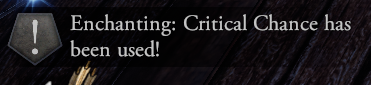
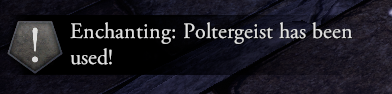
Updated version of Outward.ModsCommunicator dependency, Fixed logging prefix with double square brackets [[]], Changed data passed variables for events by making sure it's less misinterpretable (updated to match mod pack template) , Changed enchantment notification messages by making them feel less 

diff --git a/OutwardGameSettings.cs b/OutwardGameSettings.cs
@@ -23,7 +23,7 @@ namespace OutwardGameSettings
         // Choose a NAME for your project, generally the same as your Assembly Name.
         public const string NAME = "Outward Game Settings";
         // Increment the VERSION when you release a new version of your mod.
-        public const string VERSION = "1.0.0";
+        public const string VERSION = "1.0.1";
 
         public static string prefix = "[GymMed-Game-Settings]";
 
@@ -76,8 +76,8 @@ namespace OutwardGameSettings
                 "Play additional audio on enchanting failed/success?"
             );
 
-            // Register all events for publishing, when other mods can discover them
-            EventBus.RegisterEvent(GUID, EventBusPublisher.EnchantmentMenuTryEnchant, ("menu", typeof(EnchantmentMenu)));
+            // Register all events for publishing/subscribing, when other mods can discover them
+            EventBus.RegisterEvent(GUID, EventBusPublisher.EnchantmentMenuTryEnchant, ("menu", typeof(EnchantmentMenu), "The enchantment menu instance that invoked the TryEnchant method."));
             EventBus.RegisterEvent(GUID, EventBusPublisher.EnchantmentTableDoneEnchantingFail, ("table", typeof(EnchantmentTable)));
             EventBus.RegisterEvent(GUID, EventBusPublisher.EnchantmentTableDoneEnchantingSuccess, ("table", typeof(EnchantmentTable)));
 
@@ -93,7 +93,7 @@ namespace OutwardGameSettings
 
         public static void LogMessage(string message)
         {
-            Log.LogMessage($"[{OutwardGameSettings.prefix}] {message}");
+            Log.LogMessage($"{OutwardGameSettings.prefix} {message}");
         }
 
         [HarmonyPatch(typeof(ResourcesPrefabManager), nameof(ResourcesPrefabManager.Load))]
@@ -106,6 +106,7 @@ namespace OutwardGameSettings
                 #endif
 
                 EnchantmentsHelper.FixFilterRecipe();
+                EventBusDataPresenter.LogRegisteredEvents();
             }
         }
 

diff --git a/Events/EventBusPublisher.cs b/Events/EventBusPublisher.cs
@@ -14,31 +14,31 @@ namespace OutwardGameSettings.Events
         public const string EnchantmentTableDoneEnchantingFail = "EnchantmentTable@DoneEnchanting_Fail";
         public const string EnchantmentTableDoneEnchantingSuccess = "EnchantmentTable@DoneEnchanting_Success";
 
-        public static void SendTryEnchant(EnchantmentMenu menu)
+        public static void SendTryEnchant(EnchantmentMenu enchantmentMenu)
         {
             var payload = new EventPayload
             {
-                ["EnchantmentMenu"] = menu,
+                ["menu"] = enchantmentMenu,
             };
 
             EventBus.Publish(OutwardGameSettings.GUID, EnchantmentMenuTryEnchant, payload);
         }
 
-        public static void SendFailEnchanting(EnchantmentTable table)
+        public static void SendFailEnchanting(EnchantmentTable enchantmentTable)
         {
             var payload = new EventPayload
             {
-                ["EnchantmentTable"] = table,
+                ["table"] = enchantmentTable,
             };
 
             EventBus.Publish(OutwardGameSettings.GUID, EnchantmentTableDoneEnchantingFail, payload);
         }
 
-        public static void SendSuccessEnchanting(EnchantmentTable table)
+        public static void SendSuccessEnchanting(EnchantmentTable enchantmentTable)
         {
             var payload = new EventPayload
             {
-                ["EnchantmentTable"] = table,
+                ["table"] = enchantmentTable,
             };
 
             EventBus.Publish(OutwardGameSettings.GUID, EnchantmentTableDoneEnchantingSuccess, payload);

diff --git a/Patches/Patch_DoneEnchanting.cs b/Patches/Patch_DoneEnchanting.cs
@@ -35,7 +35,7 @@ namespace OutwardGameSettings.Patches
                     {
                         Equipment equipment = __instance.m_containedItems.Values[0] as Equipment;
 
-                        NotificationsManager.Instance.BroadcastGlobalSideNotification($"Enchanting {equipment.DisplayName} with {__instance.PendingEnchantment.Name} failed!");
+                        NotificationsManager.Instance.BroadcastGlobalSideNotification($"{equipment.DisplayName} failed to be enchanted with {__instance.PendingEnchantment.Name}!");
                     }
                     else
                         NotificationsManager.Instance.BroadcastGlobalSideNotification($"Enchanting failed!");
@@ -77,7 +77,7 @@ namespace OutwardGameSettings.Patches
             {
                 Equipment equipment = __instance.m_containedItems.Values[0] as Equipment;
 
-                NotificationsManager.Instance.BroadcastGlobalSideNotification($"Enchanting {equipment.DisplayName} with {__instance.PendingEnchantment.Name} succeeded!");
+                NotificationsManager.Instance.BroadcastGlobalSideNotification($"{equipment.DisplayName} was successfully enchanted with {__instance.PendingEnchantment.Name}!");
             }
             else
                 NotificationsManager.Instance.BroadcastGlobalSideNotification($"Enchanting succeeded!");

diff --git a/README.md b/README.md
@@ -3,7 +3,7 @@
 </h1>
 <br/>
 <div align="center">
-  <img src="./preview/images/Logo.png" alt="Outward game setting to require enchantment recipe when enchanting."/>
+  <img src="./preview/images/0.png" alt="Outward game setting to require enchantment recipe when enchanting."/>
 </div>
 
 <div align="center">
